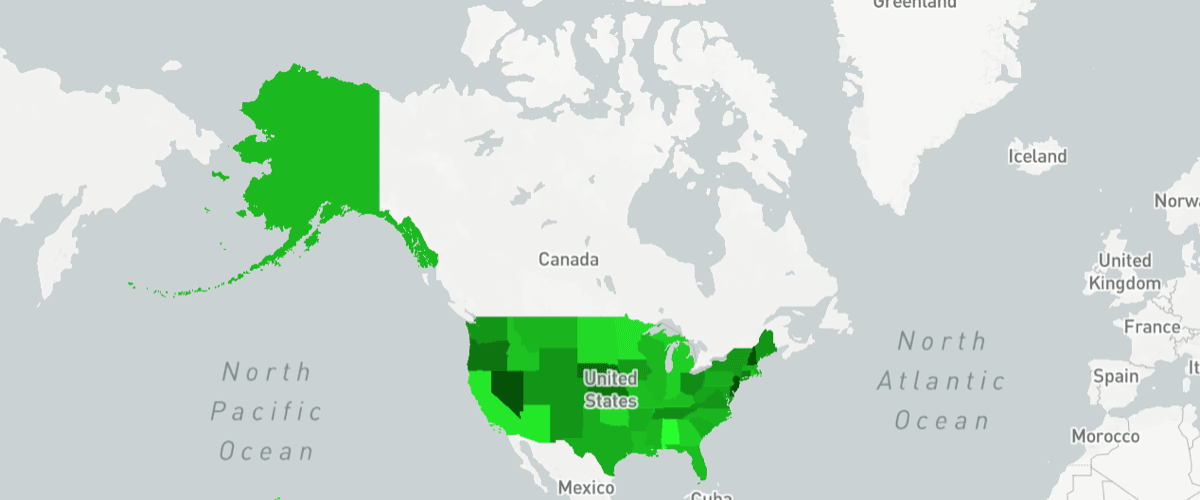
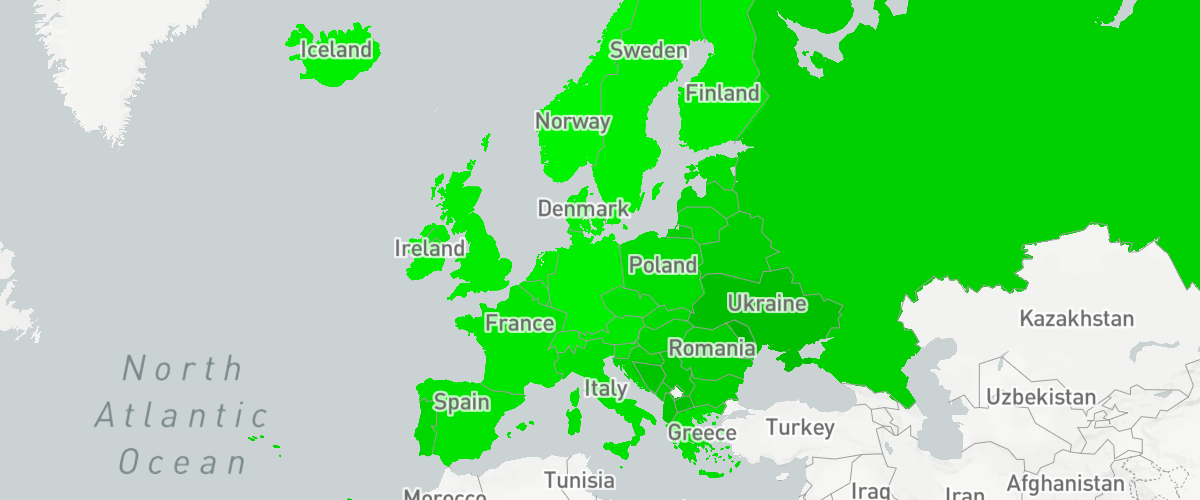
Update data join example to use mapbox countries tileset (#428)
* Update data join example to use mapbox countries tileset

* Use match expression for joining

* Add more comments

* Update img

* use rgb color instead of hsl

* Update comments

* Remove % from rgba value

diff --git a/docs/pages/example/data-join.html b/docs/pages/example/data-join.html
@@ -3,99 +3,94 @@
     var map = new mapboxgl.Map({
         container: 'map',
         style: 'mapbox://styles/mapbox/light-v10',
-        center: [-99.9, 41.5],
-        zoom: 1
+        center: [12, 50],
+        zoom: 1.6
     });
 
-    // Join local JSON data with vector tile geometry
-    // USA unemployment rate in 2009
-    // Source https://data.bls.gov/timeseries/LNS14000000
-    var maxValue = 13;
-    var data = [
-        { 'STATE_ID': '01', 'unemployment': 13.17 },
-        { 'STATE_ID': '02', 'unemployment': 9.5 },
-        { 'STATE_ID': '04', 'unemployment': 12.15 },
-        { 'STATE_ID': '05', 'unemployment': 8.99 },
-        { 'STATE_ID': '06', 'unemployment': 11.83 },
-        { 'STATE_ID': '08', 'unemployment': 7.52 },
-        { 'STATE_ID': '09', 'unemployment': 6.44 },
-        { 'STATE_ID': '10', 'unemployment': 5.17 },
-        { 'STATE_ID': '12', 'unemployment': 9.67 },
-        { 'STATE_ID': '13', 'unemployment': 10.64 },
-        { 'STATE_ID': '15', 'unemployment': 12.38 },
-        { 'STATE_ID': '16', 'unemployment': 10.13 },
-        { 'STATE_ID': '17', 'unemployment': 9.58 },
-        { 'STATE_ID': '18', 'unemployment': 10.63 },
-        { 'STATE_ID': '19', 'unemployment': 8.09 },
-        { 'STATE_ID': '20', 'unemployment': 5.93 },
-        { 'STATE_ID': '21', 'unemployment': 9.86 },
-        { 'STATE_ID': '22', 'unemployment': 9.81 },
-        { 'STATE_ID': '23', 'unemployment': 7.82 },
-        { 'STATE_ID': '24', 'unemployment': 8.35 },
-        { 'STATE_ID': '25', 'unemployment': 9.1 },
-        { 'STATE_ID': '26', 'unemployment': 10.69 },
-        { 'STATE_ID': '27', 'unemployment': 11.53 },
-        { 'STATE_ID': '28', 'unemployment': 9.29 },
-        { 'STATE_ID': '29', 'unemployment': 9.94 },
-        { 'STATE_ID': '30', 'unemployment': 9.29 },
-        { 'STATE_ID': '31', 'unemployment': 5.45 },
-        { 'STATE_ID': '32', 'unemployment': 4.21 },
-        { 'STATE_ID': '33', 'unemployment': 4.27 },
-        { 'STATE_ID': '34', 'unemployment': 4.09 },
-        { 'STATE_ID': '35', 'unemployment': 7.83 },
-        { 'STATE_ID': '36', 'unemployment': 8.01 },
-        { 'STATE_ID': '37', 'unemployment': 9.34 },
-        { 'STATE_ID': '38', 'unemployment': 11.23 },
-        { 'STATE_ID': '39', 'unemployment': 7.08 },
-        { 'STATE_ID': '40', 'unemployment': 11.22 },
-        { 'STATE_ID': '41', 'unemployment': 6.2 },
-        { 'STATE_ID': '42', 'unemployment': 9.11 },
-        { 'STATE_ID': '44', 'unemployment': 10.42 },
-        { 'STATE_ID': '45', 'unemployment': 8.89 },
-        { 'STATE_ID': '46', 'unemployment': 11.03 },
-        { 'STATE_ID': '47', 'unemployment': 7.35 },
-        { 'STATE_ID': '48', 'unemployment': 8.92 },
-        { 'STATE_ID': '49', 'unemployment': 7.65 },
-        { 'STATE_ID': '50', 'unemployment': 8.01 },
-        { 'STATE_ID': '51', 'unemployment': 7.62 },
-        { 'STATE_ID': '53', 'unemployment': 7.77 },
-        { 'STATE_ID': '54', 'unemployment': 8.49 },
-        { 'STATE_ID': '55', 'unemployment': 9.42 },
-        { 'STATE_ID': '56', 'unemployment': 7.59 }
-    ];
+    // Data: UN Human Development Index 2017 Europe extract
+    // Source: https://ourworldindata.org/human-development-index
+    var data = [{ "code": "ROU", "hdi": 0.811 },
+                { "code": "RUS", "hdi": 0.816 },
+                { "code": "SRB", "hdi": 0.787 },
+                { "code": "SVK", "hdi": 0.855 },
+                { "code": "SVN", "hdi": 0.896 },
+                { "code": "ESP", "hdi": 0.891 },
+                { "code": "SWE", "hdi": 0.933 },
+                { "code": "CHE", "hdi": 0.944 },
+                { "code": "HRV", "hdi": 0.831 },
+                { "code": "CZE", "hdi": 0.888 },
+                { "code": "DNK", "hdi": 0.929 },
+                { "code": "EST", "hdi": 0.871 },
+                { "code": "FIN", "hdi": 0.92 },
+                { "code": "FRA", "hdi": 0.901 },
+                { "code": "DEU", "hdi": 0.936 },
+                { "code": "GRC", "hdi": 0.87 },
+                { "code": "ALB", "hdi": 0.785 },
+                { "code": "AND", "hdi": 0.858 },
+                { "code": "AUT", "hdi": 0.908 },
+                { "code": "BLR", "hdi": 0.808 },
+                { "code": "BEL", "hdi": 0.916 },
+                { "code": "BIH", "hdi": 0.768 },
+                { "code": "BGR", "hdi": 0.813 },
+                { "code": "MKD", "hdi": 0.757 },
+                { "code": "MLT", "hdi": 0.878 },
+                { "code": "MDA", "hdi": 0.7 },
+                { "code": "MNE", "hdi": 0.814 },
+                { "code": "NLD", "hdi": 0.931 },
+                { "code": "NOR", "hdi": 0.953 },
+                { "code": "POL", "hdi": 0.865 },
+                { "code": "PRT", "hdi": 0.847 },
+                { "code": "HUN", "hdi": 0.838 },
+                { "code": "ISL", "hdi": 0.935 },
+                { "code": "IRL", "hdi": 0.938 },
+                { "code": "ITA", "hdi": 0.88 },
+                { "code": "LVA", "hdi": 0.847 },
+                { "code": "LIE", "hdi": 0.916 },
+                { "code": "LTU", "hdi": 0.858 },
+                { "code": "LUX", "hdi": 0.904 },
+                { "code": "UKR", "hdi": 0.751 },
+                { "code": "GBR", "hdi": 0.922 } ]
 
     map.on('load', function () {
-        // Add source for state polygons hosted on Mapbox, based on US Census Data:
-        // https://www.census.gov/geo/maps-data/data/cbf/cbf_state.html
-        map.addSource('states', {
+
+        // Add source for country polygons using the Mapbox Countries tileset
+        // The polygons contain an ISO 3166 alpha-3 code which can be used to for joining the data
+        // https://docs.mapbox.com/vector-tiles/reference/mapbox-countries-v1
+        map.addSource('countries', {
             type: 'vector',
-            url: 'mapbox://mapbox.us_census_states_2015'
+            url: 'mapbox://mapbox.country-boundaries-v1'
         });
 
-        var expression = ['match', ['get', 'STATE_ID']];
+        // Build a GL match expression that defines the color for every vector tile feature
+        // Use the ISO 3166-1 alpha 3 code as the lookup key for the country shape
+        var matchExpression = ['match', ['get', 'iso_3166_1_alpha_3']];
 
-        // Calculate color for each state based on the unemployment rate
+        // Calculate color values for each country based on 'hdi' value
         data.forEach(function (row) {
-            var green = (row['unemployment'] / maxValue) * 255;
-            var color = 'rgba(' + 0 + ', ' + green + ', ' + 0 + ', 1)';
-            expression.push(row['STATE_ID'], color);
+
+            // Convert the range of data values to a suitable color
+            var green = row['hdi'] * 255;
+            var color = 'rgb(0, '+ green + ', 0)';
+
+            matchExpression.push(row['code'], color);
+
         });
 
         // Last value is the default, used where there is no data
-        expression.push('rgba(0,0,0,0)');
+        matchExpression.push('rgba(0, 0, 0, 0)');
 
-        // Add layer from the vector tile source with data-driven style
-        map.addLayer(
-            {
-                'id': 'states-join',
-                'type': 'fill',
-                'source': 'states',
-                'source-layer': 'states',
-                'paint': {
-                    'fill-color': expression
-                }
-            },
-            'waterway-label'
-        );
+        // Add layer from the vector tile source to create the choropleth
+        // Insert it below the 'admin-1-boundary-bg' layer in the style
+        map.addLayer({
+            'id': 'countries-join',
+            'type': 'fill',
+            'source': 'countries',
+            'source-layer': 'country_boundaries',
+            'paint': {
+                'fill-color': matchExpression
+            }
+        }, 'admin-1-boundary-bg');
+
     });
+
 </script>
